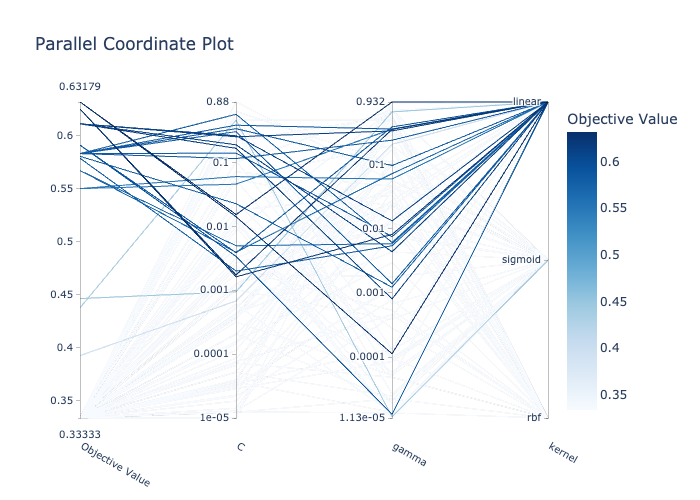
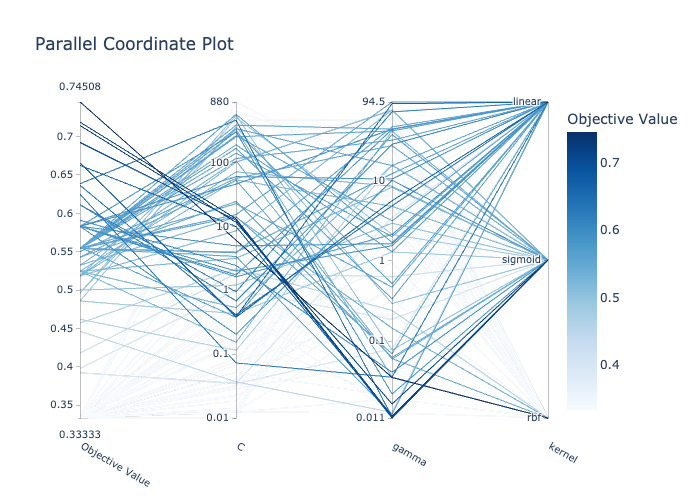
svm tuning

diff --git a/2021/train.py b/2021/train.py
@@ -20,7 +20,6 @@ from sklearn.preprocessing import StandardScaler
 import seaborn as sns
 import json
 import warnings
-from sklearn.model_selection import GridSearchCV
 import xgboost as xgb
 import lightgbm as lgbm
 from sklearn.svm import SVC
@@ -40,6 +39,13 @@ TRAIN_FILE, TEST_FILE = "train.csv", "test.csv"
 OUTPUT_DIR = "./output_apo"
 OUTPUT_FILENAME = "predict.csv"
 
+
+# Optunaで Tuning するかどうか
+TUNING_RF = False
+TUNING_XGB = False
+TUNING_LGBM = True
+TUNING_SVM = False
+
 # k-cross validation
 FOLD_TYPE = "k-fold" # 'k-fold' or 'k-stratified'
 N_SPLITS = 5
@@ -56,6 +62,7 @@ IS_LGBM_SHAP = True
 IS_SVM_SHAP = True
 
 # 特徴重要度の観察から特徴量削除カラム
+RF_COLUMNS_NAME = []
 XGB_COLUMNS_NAME = []
 LGBM_COLUMNS_NAME = []
 SVM_COLUMNS_NAME = []
@@ -118,117 +125,90 @@ def main():
     svm_params = hyper_params['svm']
 
     ## for train
-    # xgboost
-    xgb_X = X.copy()
-    # 特徴重要度の観察から特徴量削除
-    xgb_X_droped = xgb_X.drop(columns=XGB_COLUMNS_NAME)
-
-    ## Optuna
+    ## Tuning by Optuna
+    
     # random forest
-    study = param_tuning('RandomForest', X, y, X_test, y_test, n_trials=100)
-    rf_best_param_v1 = study.best_params
-    print('rf_best_param_v1: {}'.format(rf_best_param_v1))
-    vizualize_tuning_result(study, os.path.join(OUTPUT_DIR, 'optuna/rf'), 'rf')
+    if TUNING_RF:
+        ## 前処理
+        rf_X = X.copy()
+        # 特徴重要度の観察から特徴量削除
+        rf_X_droped = rf_X.drop(columns=RF_COLUMNS_NAME)
+
+        study = param_tuning('RandomForest', rf_X_droped, y, X_test, y_test, n_trials=100)
+        rf_best_param_v1 = study.best_params
+        vizualize_tuning_result(study, os.path.join(OUTPUT_DIR, 'optuna/rf'), 'rf')
+
+        print('--------------best parameter------------------')
+        print('rf_best_param_v1: {}'.format(rf_best_param_v1))
+        print('--------------Predict test data using best parameter------------------')
+        clf = RandomForestClassifier(**rf_best_param_v1)
+        clf.fit(X, y)
+        print('rf: {}'.format(f1_score(y_test, clf.predict(X_test))))
+
+        
 
     # xgboost
-    study = param_tuning('XGboost', X, y, X_test, y_test, n_trials=100)
-    xgb_best_param_v1 = study.best_params
-    print('xgb_best_param_v1: {}'.format(xgb_best_param_v1))
-    vizualize_tuning_result(study, os.path.join(OUTPUT_DIR, 'optuna/xgb'), 'xgb')
+    if TUNING_XGB:
+        ## 前処理
+        xgb_X = X.copy()
+        # 特徴重要度の観察から特徴量削除
+        xgb_X_droped = xgb_X.drop(columns=XGB_COLUMNS_NAME)
+
+        study = param_tuning('XGboost', xgb_X_droped, y, X_test, y_test, n_trials=100)
+        xgb_best_param_v1 = study.best_params
+        vizualize_tuning_result(study, os.path.join(OUTPUT_DIR, 'optuna/xgb'), 'xgb')
+        print('--------------best parameter------------------')
+        print('xgb_best_param_v1: {}'.format(xgb_best_param_v1))
+        print('--------------Predict test data using best parameter------------------')
+        clf = xgb.XGBClassifier(**xgb_best_param_v1)
+        clf.fit(X, y)
+        print('xgb: {}'.format(f1_score(y_test, clf.predict(X_test))))
+        
 
     # lightgbm
-    study = param_tuning('LightGBM', X, y, X_test, y_test, n_trials=100)
-    lgbm_best_param_v1 = study.best_params
-    print('lgbm_best_param_v1: {}'.format(lgbm_best_param_v1))
-    vizualize_tuning_result(study, os.path.join(OUTPUT_DIR, 'optuna/lgbm'), 'lgbm')
+    if TUNING_LGBM:
+        ## 前処理
+        lgbm_X = X.copy()
+        # 特徴重要度の観察から特徴量削除
+        lgbm_X_droped = lgbm_X.drop(columns=LGBM_COLUMNS_NAME)
+
+        study = param_tuning('LightGBM', lgbm_X_droped, y, X_test, y_test, n_trials=100)
+        lgbm_best_param_v1 = study.best_params
+        vizualize_tuning_result(study, os.path.join(OUTPUT_DIR, 'optuna/xgb'), 'xgb')
+        print('--------------best parameter------------------')
+        print('lgbm_best_param_v1: {}'.format(lgbm_best_param_v1))
+        print('--------------Predict test data using best parameter------------------')
+        clf = lgbm.LGBMClassifier(**lgbm_best_param_v1)
+        clf.fit(X, y)
+        print('lgbm: {}'.format(f1_score(y_test, clf.predict(X_test))))
+        
 
     # support vector machine
-    study = param_tuning('SVM', X, y, X_test, y_test, n_trials=100)
-    svm_best_param_v1 = study.best_params
-    print('svm_best_param_v1: {}'.format(svm_best_param_v1))
-    vizualize_tuning_result(study, os.path.join(OUTPUT_DIR, 'optuna/svm'), 'svm')
+    if TUNING_SVM:
+        ## 前処理
+        # 標準化 & 特徴重要度の観察から特徴量削除
+        stdsc = StandardScaler().fit(X.copy())
+        svm_X_droped_stdsc = pd.DataFrame(stdsc.transform(X.copy()), columns=X.copy().columns).drop(columns=SVM_COLUMNS_NAME)
+        X_test_stdsc = pd.DataFrame(stdsc.transform(X_test.copy()), columns=X_test.copy().columns).drop(columns=SVM_COLUMNS_NAME)
 
-    # best parameter
-    print('--------------best parameter------------------')
-    print('rf_best_param_v1: {}'.format(rf_best_param_v1))
-    print('xgb_best_param_v1: {}'.format(xgb_best_param_v1))
-    print('lgbm_best_param_v1: {}'.format(lgbm_best_param_v1))
-    print('svm_best_param_v1: {}'.format(svm_best_param_v1))
+        study = param_tuning('SVM', svm_X_droped_stdsc, y, X_test_stdsc, y_test, n_trials=100)
+        svm_best_param_v1 = study.best_params
+        vizualize_tuning_result(study, os.path.join(OUTPUT_DIR, 'optuna/svm'), 'svm')
+        print('--------------best parameter------------------')
+        print('svm_best_param_v1: {}'.format(svm_best_param_v1))
+        print('--------------Predict test data using best parameter------------------')
+        clf = SVC(**svm_best_param_v1, probability=True)
+        clf.fit(svm_X_droped_stdsc, y)
+        print('svm: {}'.format(f1_score(y_test, clf.predict(X_test_stdsc))))
 
-    print('--------------Predict test data using best parameter------------------')
-    clf = RandomForestClassifier(**rf_best_param_v1)
-    clf.fit(X, y)
-    print('rf: {}'.format(f1_score(y_test, clf.predict(X_test))))
-    clf = xgb.XGBClassifier(**xgb_best_param_v1)
-    clf.fit(X, y)
-    print('xgb: {}'.format(f1_score(y_test, clf.predict(X_test))))
-    clf = lgbm.LGBMClassifier(**lgbm_best_param_v1)
-    clf.fit(X, y)
-    print('lgbm: {}'.format(f1_score(y_test, clf.predict(X_test))))
-    clf = SVC(**svm_best_param_v1, probability=True)
-    clf.fit(X, y)
-    print('svm: {}'.format(f1_score(y_test, clf.predict(X_test))))
 
     sys.exit()
 
 
-    # Grid Search
-    # xgb_gs_cv = GridSearchCV(
-    #                     xgb.XGBClassifier(), # 識別器
-    #                     xgb_params, # 最適化したいパラメータセット 
-    #                     cv=cv, # 交差検定の回数
-    #                     scoring='neg_mean_squared_error',
-    #                     verbose=1,
-    #                     return_train_score = True
-    #                 )
-    # xgb_gs_cv.fit(xgb_X_droped, y)
-    # xgb_best_param = xgb_gs_cv.best_params_
-    
-    # print('XgBoost Best parameter: {}'.format(xgb_best_param))
-
-    xgb_oof, xgb_models = fit_xgb(xgb_X_droped.values, y, cv, params=xgb_best_param)
-    
-    # lightgbm
-    lgbm_X = X.copy()
-    # 特徴重要度の観察から特徴量削除
-    lgbm_X_droped = lgbm_X.drop(columns=LGBM_COLUMNS_NAME)
-
-    # Grid Search
-    lgbm_gs_cv = GridSearchCV(
-                        lgbm.LGBMClassifier(), # 識別器
-                        lgbm_params, # 最適化したいパラメータセット 
-                        cv=cv, # 交差検定の回数
-                        scoring='neg_mean_squared_error',
-                        verbose=1,
-                        return_train_score = True
-                    )
-    lgbm_gs_cv.fit(lgbm_X_droped, y)
-    lgbm_best_param = lgbm_gs_cv.best_params_
-    
-    print('LightGBM Best parameter: {}'.format(lgbm_best_param))
-
-    lgbm_oof, lgbm_models = fit_lgbm(lgbm_X_droped.values, y, cv, params=lgbm_best_param)
-
-    # svm
-    # 標準化 & 特徴重要度の観察から特徴量削除
-    stdsc = StandardScaler().fit(X.copy())
-    svm_X_droped = pd.DataFrame(stdsc.transform(X.copy()), columns=X.copy().columns).drop(columns=SVM_COLUMNS_NAME)
-
-    # Grid Search
-    svm_gs_cv = GridSearchCV(
-                        SVC(), # 識別器
-                        svm_params, # 最適化したいパラメータセット 
-                        cv=cv, # 交差検定の回数
-                        scoring='neg_mean_squared_error',
-                        verbose=1,
-                        return_train_score = True
-                    )
-    svm_gs_cv.fit(svm_X_droped, y)
-    svm_best_param = svm_gs_cv.best_params_
-
-    print('Support Vector Machine Best parameter: {}'.format(svm_best_param))
-
-    svm_oof, svm_models = fit_svm(svm_X_droped.values, y, cv, params=svm_best_param)
+    # training with best parameter
+    xgb_oof, xgb_models = fit_xgb(xgb_X_droped.values, y, cv, params=xgb_best_param_v1)
+    lgbm_oof, lgbm_models = fit_lgbm(lgbm_X_droped.values, y, cv, params=lgbm_best_param_v1)
+    svm_oof, svm_models = fit_svm(svm_X_droped.values, y, cv, params=svm_best_param_v1)
 
     ## for test
     ## for xgb

diff --git a/2021/lib/optuna.py b/2021/lib/optuna.py
@@ -53,9 +53,10 @@ def objective_variable(model_type, X_train, y_train, X_test, y_test):
             clf = lgbm.LGBMClassifier(**params)
 
         elif model_type=='SVM':
+            # 正規化する
             params = {
-                "C": trial.suggest_loguniform("C", 1e-5, 1),
-                "gamma": trial.suggest_loguniform("gamma", 1e-5, 1),
+                "C": trial.suggest_loguniform("C", 1e-2, 1000),
+                "gamma": trial.suggest_loguniform("gamma", 1e-2, 100),
                 "kernel": trial.suggest_categorical("kernel", ["linear", "rbf", "sigmoid"]),
                 "decision_function_shape": "ovr",
             }
